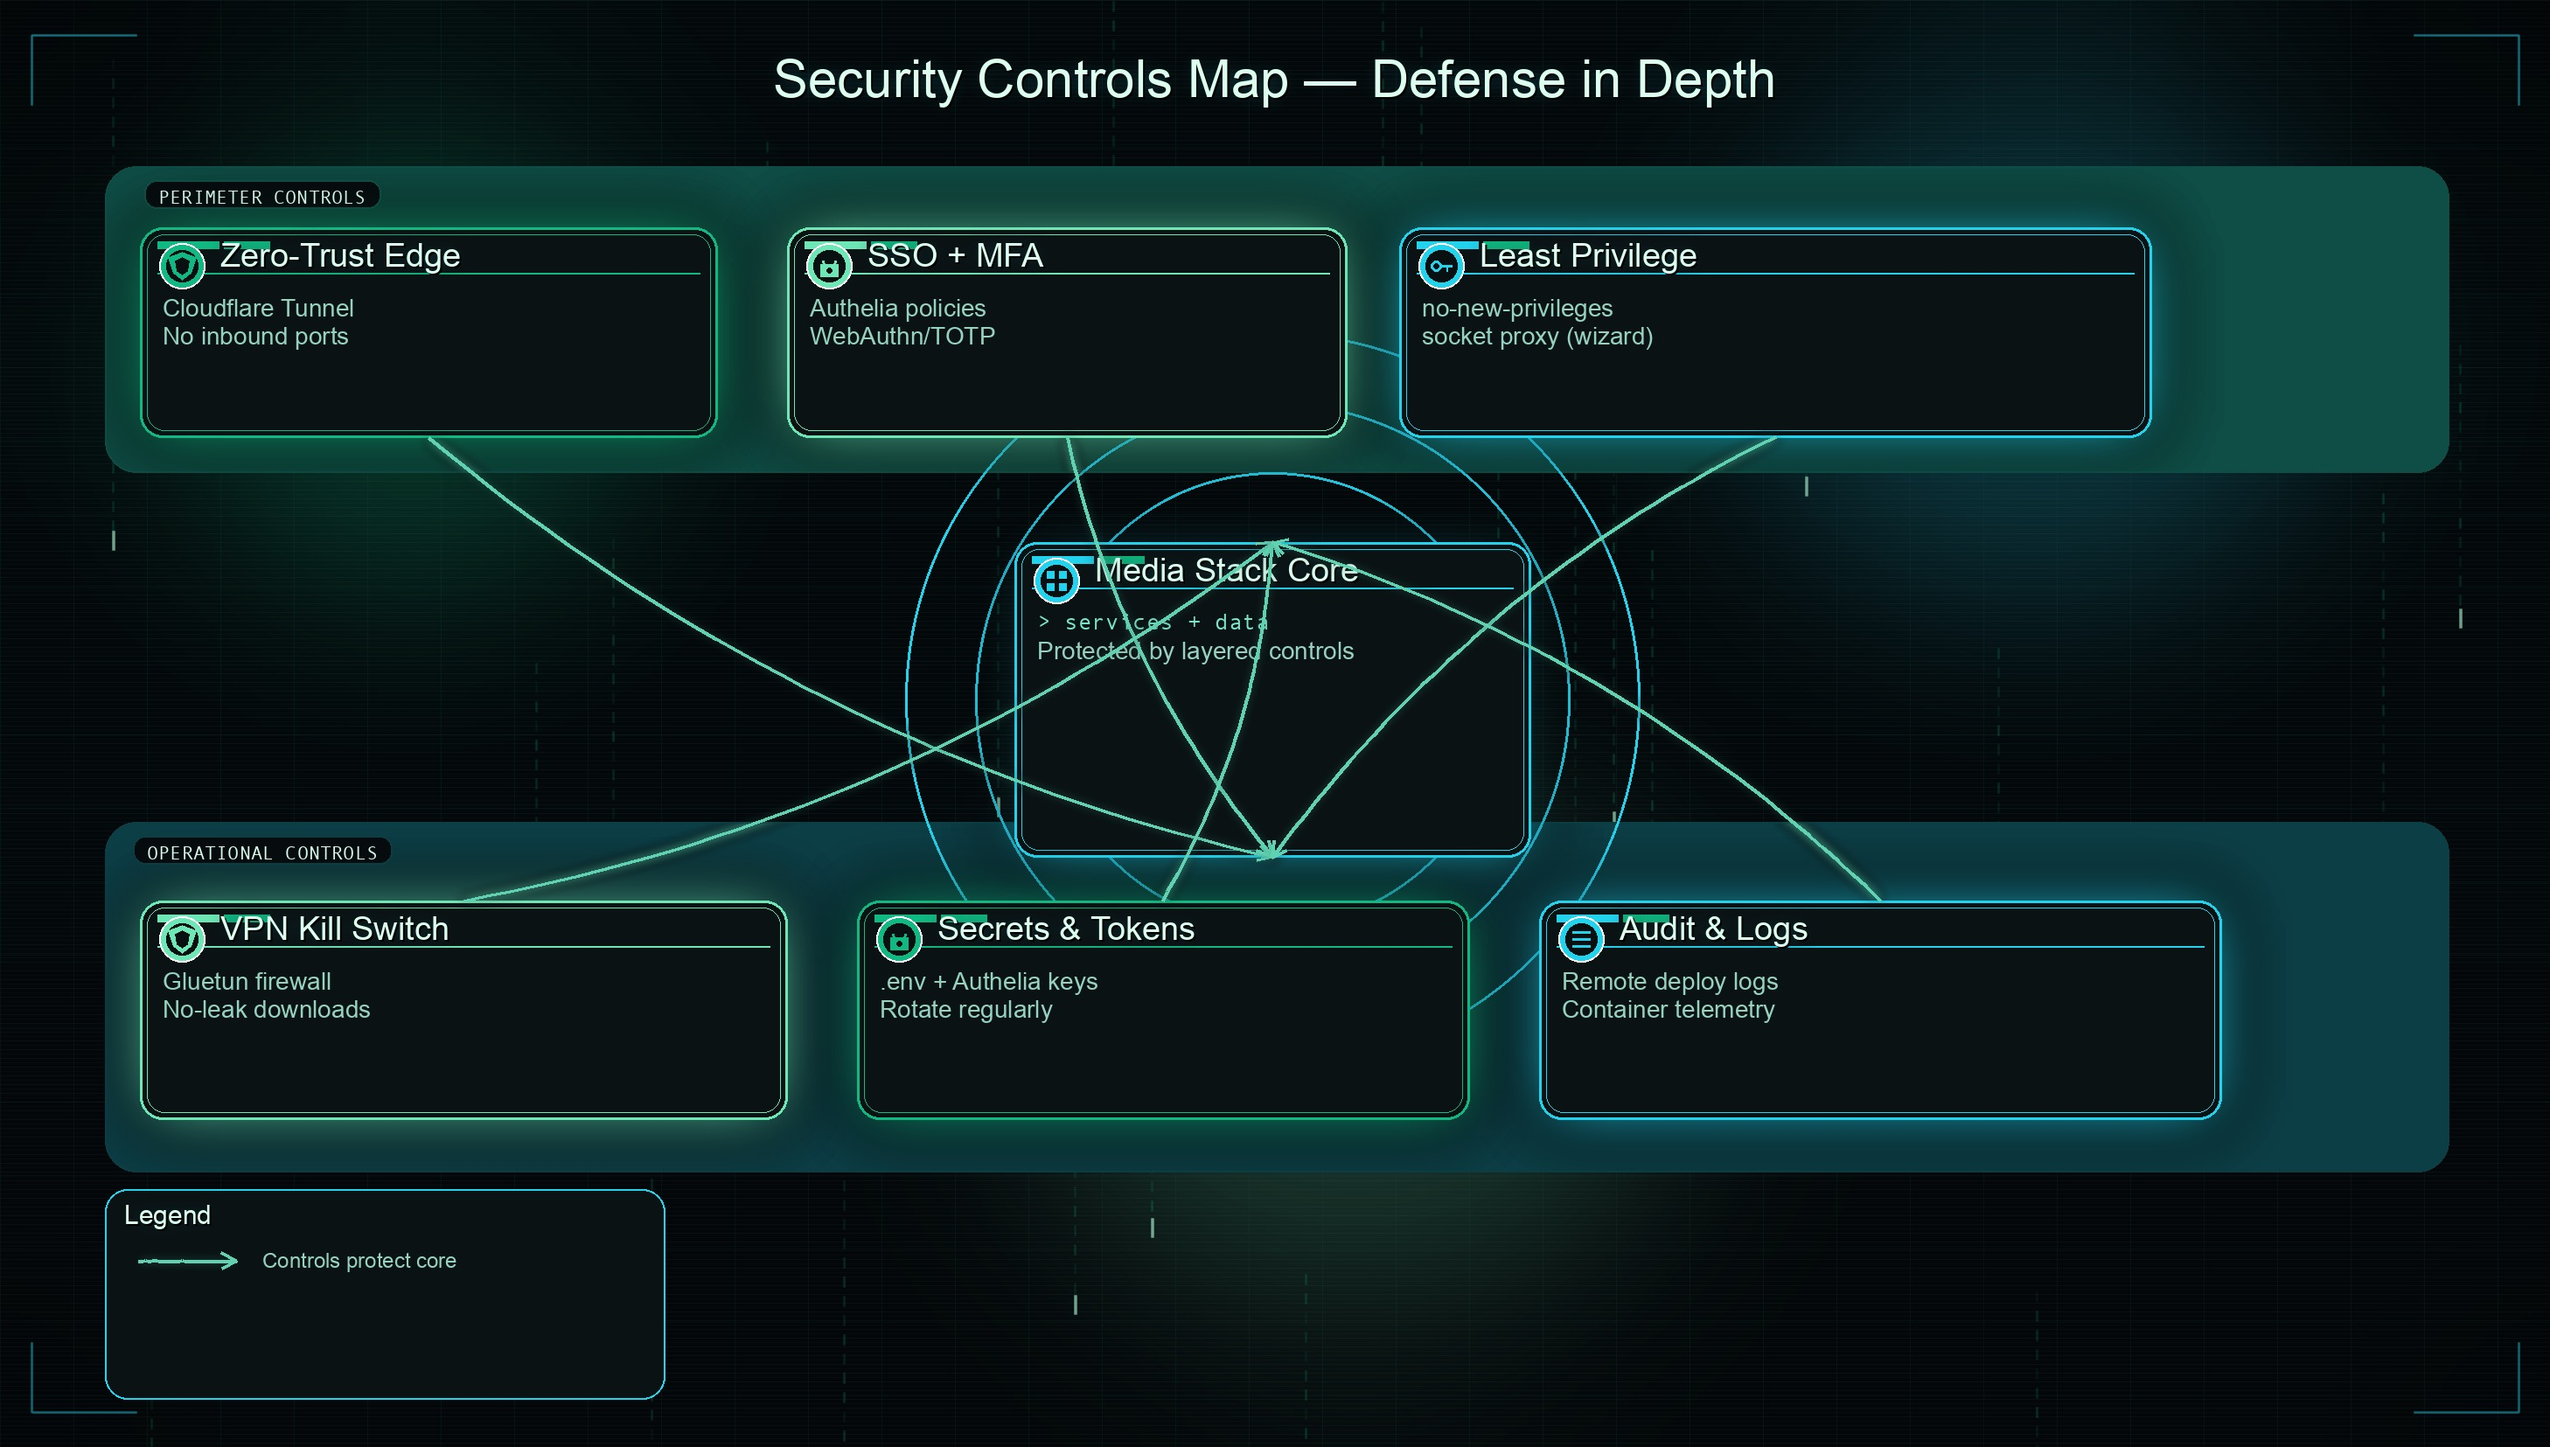
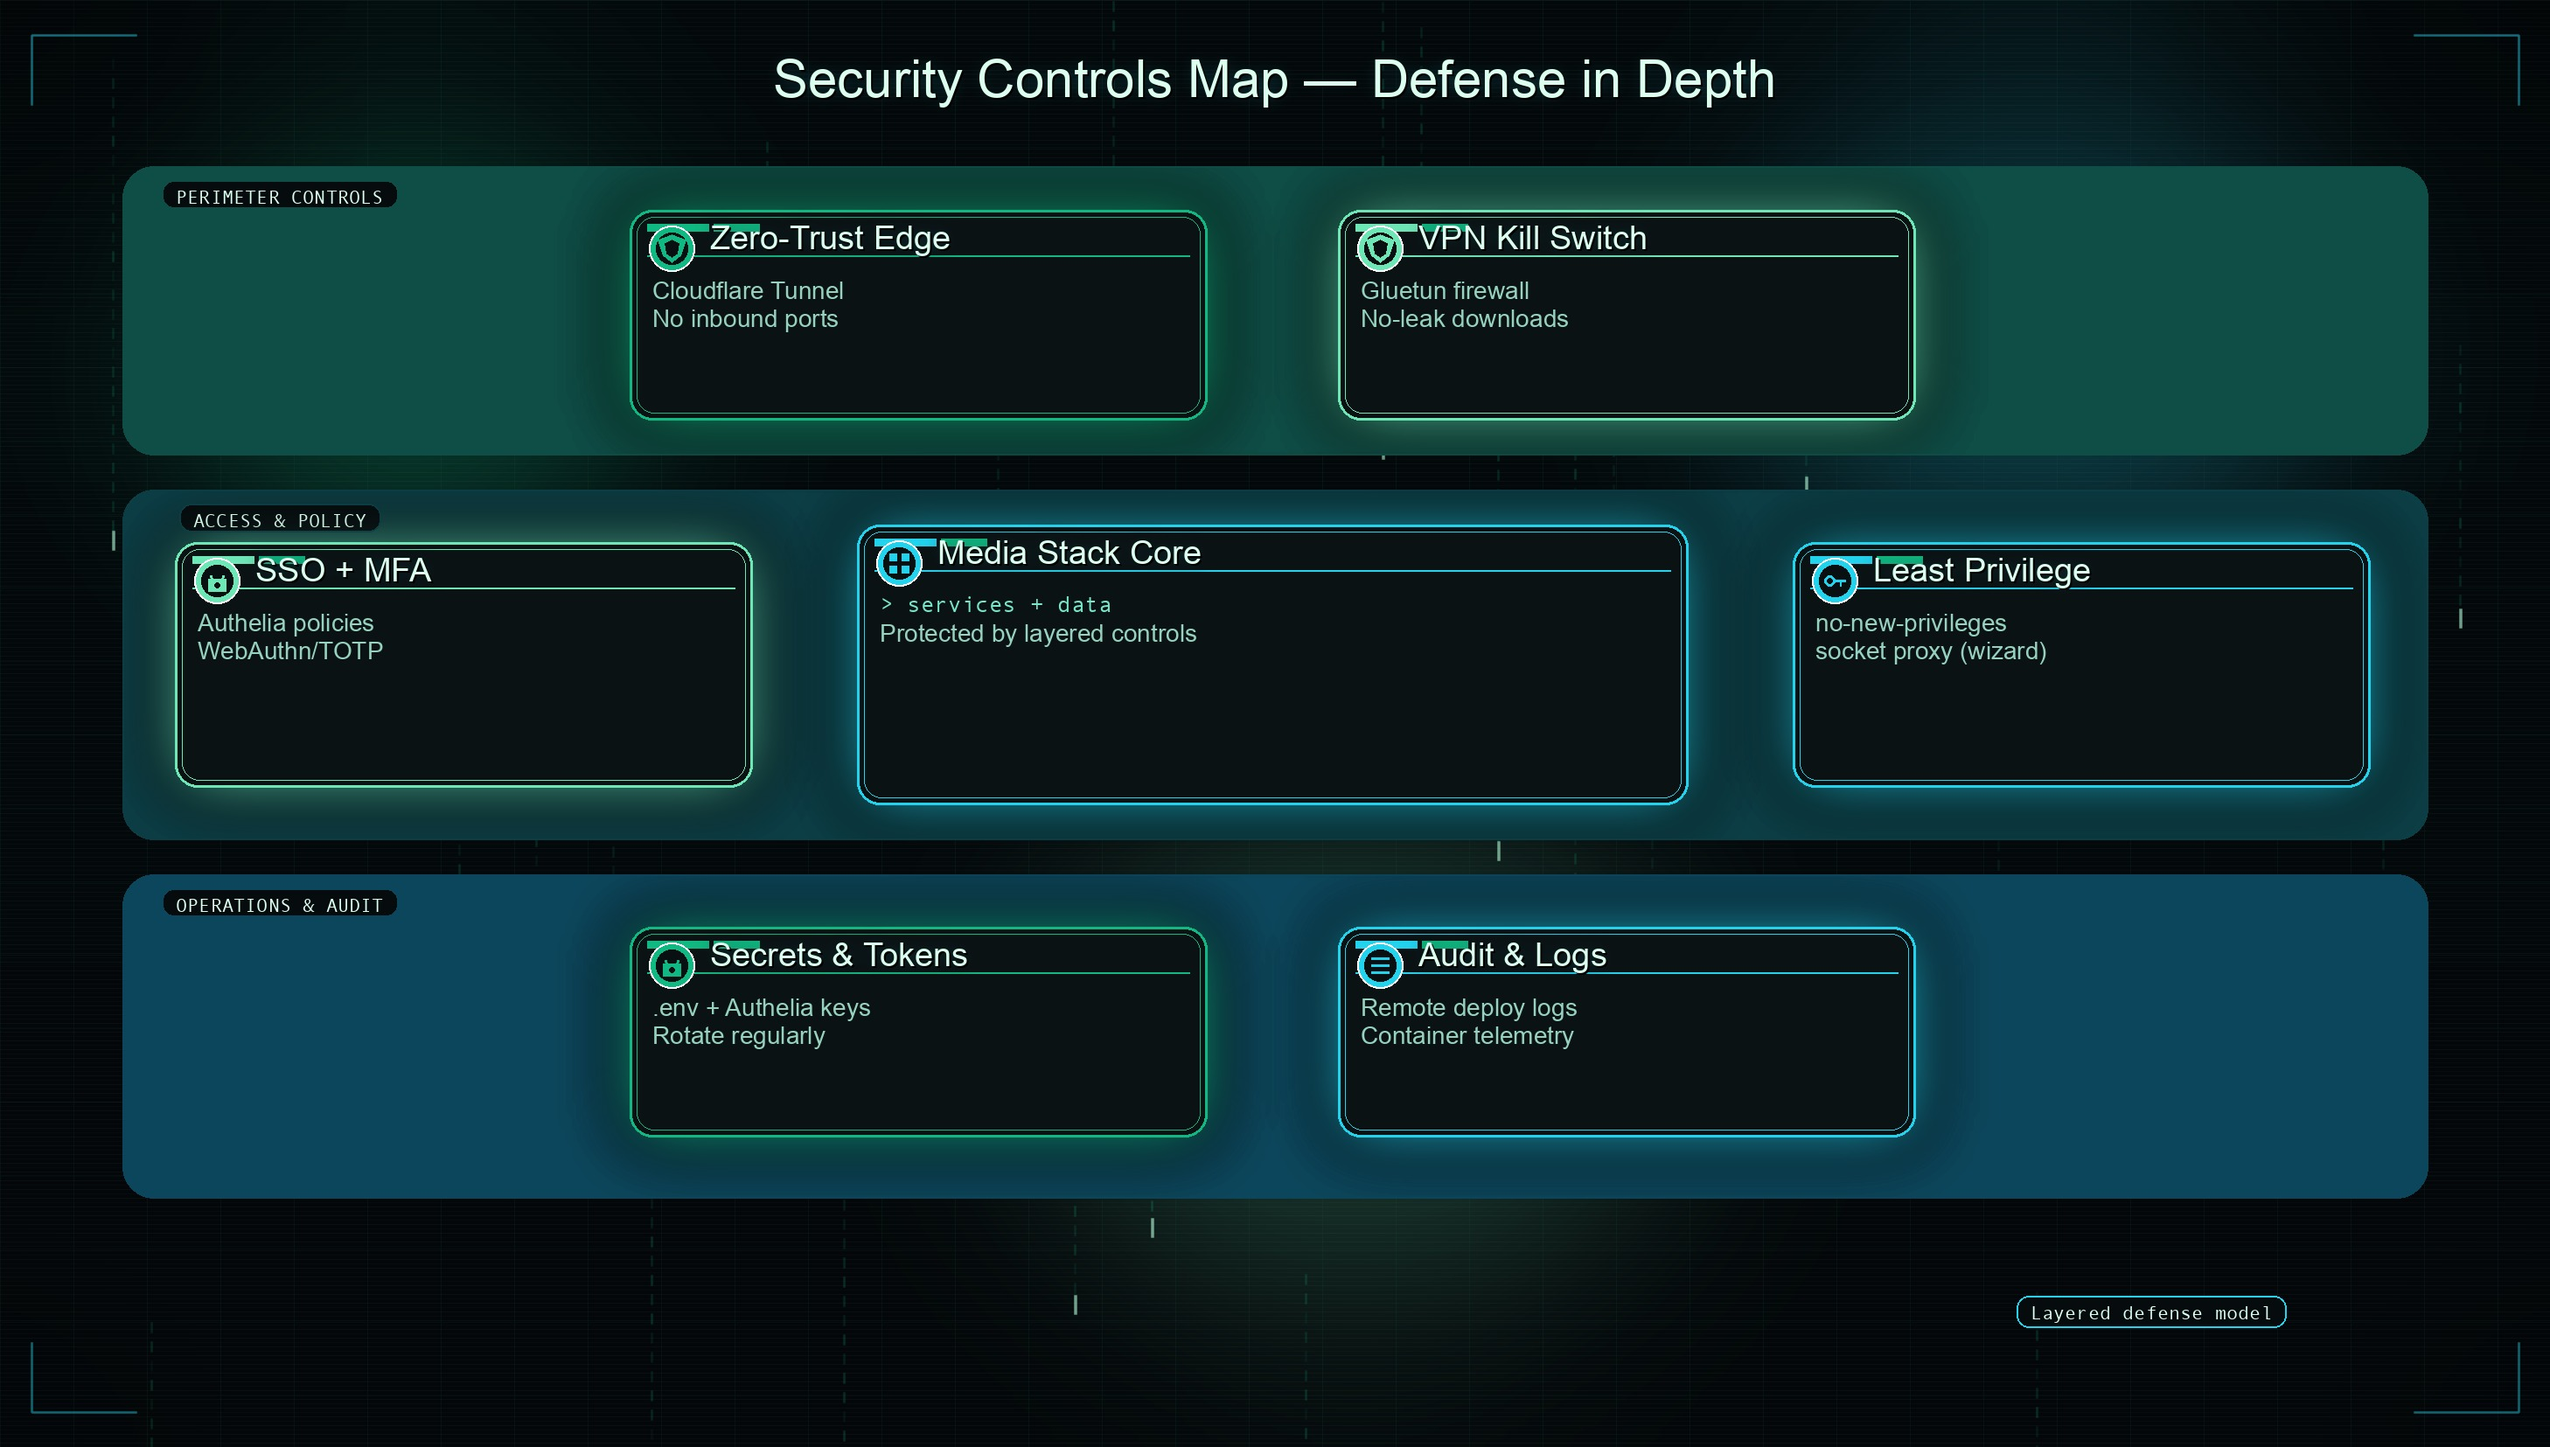
docs: Refactor security controls diagram layout for improved clarity
Reorganize security_controls diagram with horizontal three-zone layout (Perimeter Controls, Access & Policy, Operations & Audit) replacing previous vertical two-zone design. Reposition control cards in balanced grid arrangement, remove curved arrows connecting to center, and add layered defense model tag. Update both JPG and PNG outputs to reflect new security architecture visualization.

diff --git a/docs/scripts/render_diagrams.py b/docs/scripts/render_diagrams.py
@@ -478,10 +478,23 @@ def render_security() -> Image.Image:
     draw_background(ImageDraw.Draw(base), base)
     draw_title(ImageDraw.Draw(base), "Security Controls Map — Defense in Depth", base)
 
-    center_rect = (1160, 620, 1750, 980)
-    draw_zone(base, (120, 190, 2800, 540), "PERIMETER CONTROLS", COLORS["zone_edge"])
-    draw_zone(base, (120, 940, 2800, 1340), "OPERATIONAL CONTROLS", COLORS["zone_ops"])
-    draw_rings(base, ((center_rect[0] + center_rect[2]) // 2, (center_rect[1] + center_rect[3]) // 2), [260, 340, 420], COLORS["accent"])
+    draw_zone(base, (140, 190, 2776, 520), "PERIMETER CONTROLS", COLORS["zone_edge"])
+    draw_zone(base, (140, 560, 2776, 960), "ACCESS & POLICY", COLORS["zone_ops"])
+    draw_zone(base, (140, 1000, 2776, 1370), "OPERATIONS & AUDIT", COLORS["zone_data"])
+
+    center_rect = (980, 600, 1930, 920)
+
+    controls = [
+        ((720, 240, 1380, 480), "Zero-Trust Edge", ["Cloudflare Tunnel", "No inbound ports"], COLORS["primary"], "shield"),
+        ((1530, 240, 2190, 480), "VPN Kill Switch", ["Gluetun firewall", "No-leak downloads"], COLORS["highlight"], "shield"),
+        ((200, 620, 860, 900), "SSO + MFA", ["Authelia policies", "WebAuthn/TOTP"], COLORS["highlight"], "lock"),
+        ((2050, 620, 2710, 900), "Least Privilege", ["no-new-privileges", "socket proxy (wizard)"], COLORS["accent"], "key"),
+        ((720, 1060, 1380, 1300), "Secrets & Tokens", [".env + Authelia keys", "Rotate regularly"], COLORS["primary"], "lock"),
+        ((1530, 1060, 2190, 1300), "Audit & Logs", ["Remote deploy logs", "Container telemetry"], COLORS["accent"], "list"),
+    ]
+
+    for rect, title, lines, accent, icon in controls:
+        draw_card(base, rect, title, lines, accent, icon)
 
     draw_card(
         base,
@@ -491,32 +504,7 @@ def render_security() -> Image.Image:
         COLORS["accent"],
         "grid",
     )
-
-    controls = [
-        ((160, 260, 820, 500), "Zero-Trust Edge", ["Cloudflare Tunnel", "No inbound ports"], COLORS["primary"], "shield"),
-        ((900, 260, 1540, 500), "SSO + MFA", ["Authelia policies", "WebAuthn/TOTP"], COLORS["highlight"], "lock"),
-        ((1600, 260, 2460, 500), "Least Privilege", ["no-new-privileges", "socket proxy (wizard)"], COLORS["accent"], "key"),
-        ((160, 1030, 900, 1280), "VPN Kill Switch", ["Gluetun firewall", "No-leak downloads"], COLORS["highlight"], "shield"),
-        ((980, 1030, 1680, 1280), "Secrets & Tokens", [".env + Authelia keys", "Rotate regularly"], COLORS["primary"], "lock"),
-        ((1760, 1030, 2540, 1280), "Audit & Logs", ["Remote deploy logs", "Container telemetry"], COLORS["accent"], "list"),
-    ]
-
-    for rect, title, lines, accent, icon in controls:
-        draw_card(base, rect, title, lines, accent, icon)
-
-    for rect, *_ in controls:
-        sx = (rect[0] + rect[2]) // 2
-        sy = rect[1] if rect[1] > center_rect[1] else rect[3]
-        ex = (center_rect[0] + center_rect[2]) // 2
-        ey = center_rect[1] if rect[1] > center_rect[1] else center_rect[3]
-        draw_arrow(base, (sx, sy), (ex, ey), ARROW_CONTROL, curve=0.12)
-
-    draw_legend(
-        base,
-        (120, 1360, 760, 1600),
-        "Legend",
-        [("Controls protect core", ARROW_CONTROL)],
-    )
+    draw_tag(base, (2460, 1500), "Layered defense model", COLORS["accent"], font_size=22)
 
     return base.convert("RGB")
 
